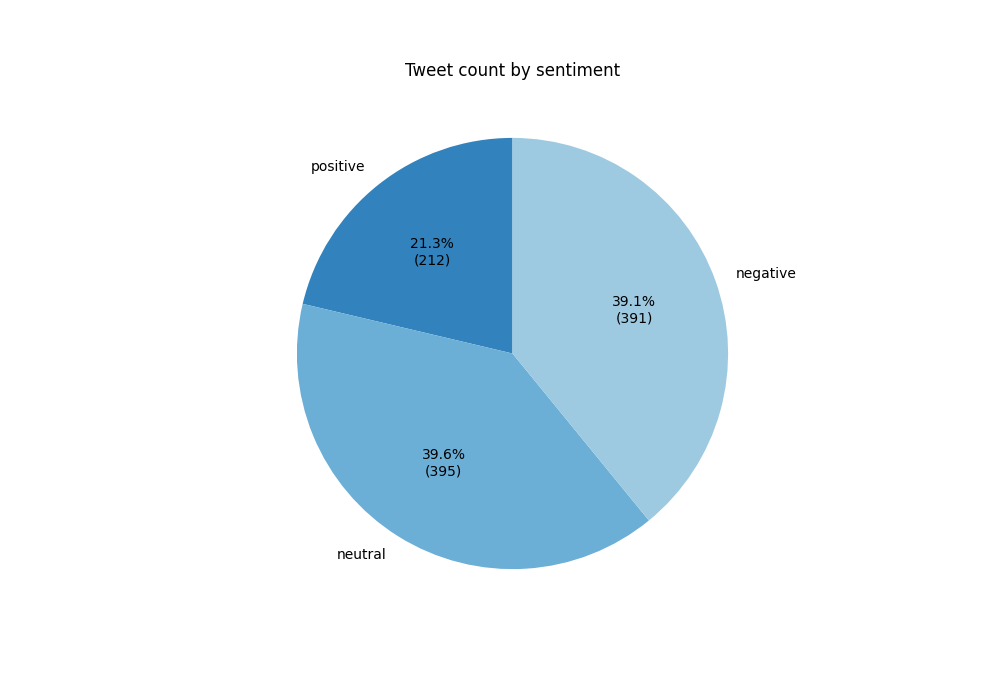
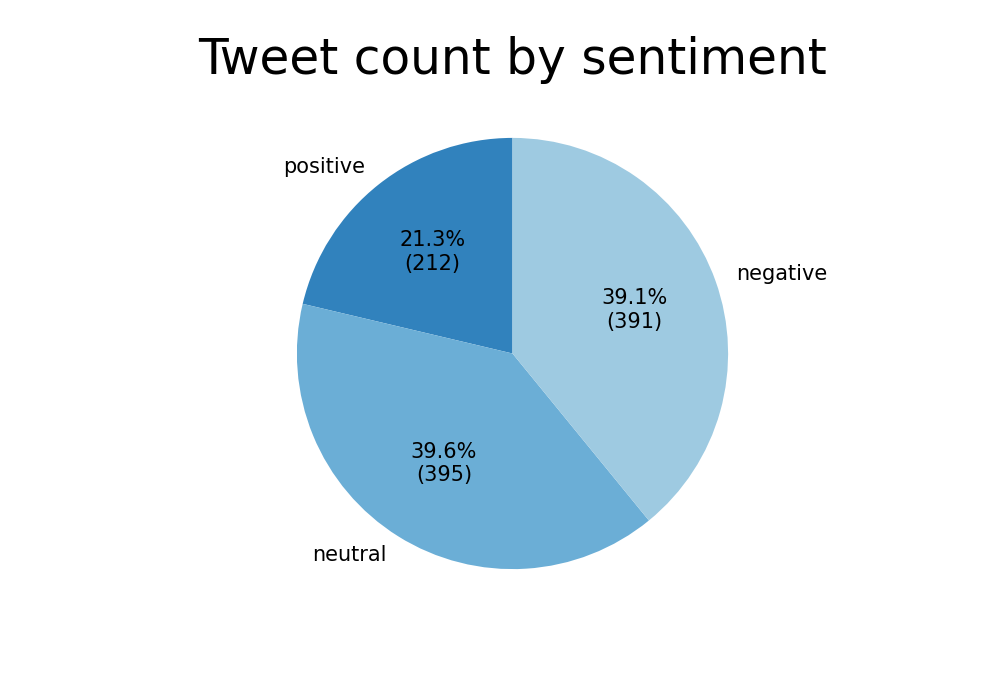
Update plots.

diff --git a/src/plot.py b/src/plot.py
@@ -28,8 +28,8 @@ def plot_topic_dist():
 
     # Creating plot
     fig, ax = plt.subplots(figsize=(10, 7))
-    ax.pie(d, colors=colors, autopct=lambda pct: func(pct, d), labels=topics, startangle=90)
-    plt.title('Tweet count by topic')
+    ax.pie(d, colors=colors, autopct=lambda pct: func(pct, d), labels=topics, startangle=90, textprops={'fontsize': 15})
+    plt.title('Tweet count by topic', fontsize=35)
     plt.savefig('../result/figures/topic_pie_chart.png')
 
 
@@ -47,8 +47,8 @@ def plot_sentiment_dist():
 
     # Creating plot
     fig, ax = plt.subplots(figsize=(10, 7))
-    ax.pie(d, colors=colors, autopct=lambda pct: func(pct, d), labels=topics, startangle=90)
-    plt.title('Tweet count by sentiment')
+    ax.pie(d, colors=colors, autopct=lambda pct: func(pct, d), labels=topics, startangle=90, textprops={'fontsize': 15})
+    plt.title('Tweet count by sentiment', fontsize=35)
     plt.savefig('../result/figures/sentiment_pie_chart.png')
 
 
@@ -57,7 +57,7 @@ def plot_topic_and_sentiment():
         res = json.load(f)
     # set width of bar
     barWidth = 0.25
-    fig = plt.subplots(figsize=(12, 8))
+    fig = plt.subplots(figsize=(20, 15))
 
     # set height of bar
     positive = [res[k]['positive'] for k in res.keys()]
@@ -80,12 +80,13 @@ def plot_topic_and_sentiment():
     plt.bar(br3, negative, color=colors[2], width=barWidth, label='negative')
 
     # Adding Xticks
-    plt.xlabel('Topic')
-    plt.ylabel('Number of tweets')
-    plt.xticks([r + barWidth for r in range(len(positive))], list(res.keys()))
+    plt.xlabel('Topic', fontsize=25)
+    plt.ylabel('Number of tweets', fontsize=25)
+    plt.xticks([r + barWidth for r in range(len(positive))], list(res.keys()), fontsize=20, rotation=15, ha='right')
+    plt.yticks(fontsize=20)
 
-    plt.title('Tweet count by sentiment for each topic')
-    plt.legend()
+    plt.title('Tweet count by sentiment for each topic', fontsize=30)
+    plt.legend(prop={"size":20})
     plt.savefig('../result/figures/topic_and_sentiment_bar_chart.png')
 
 
